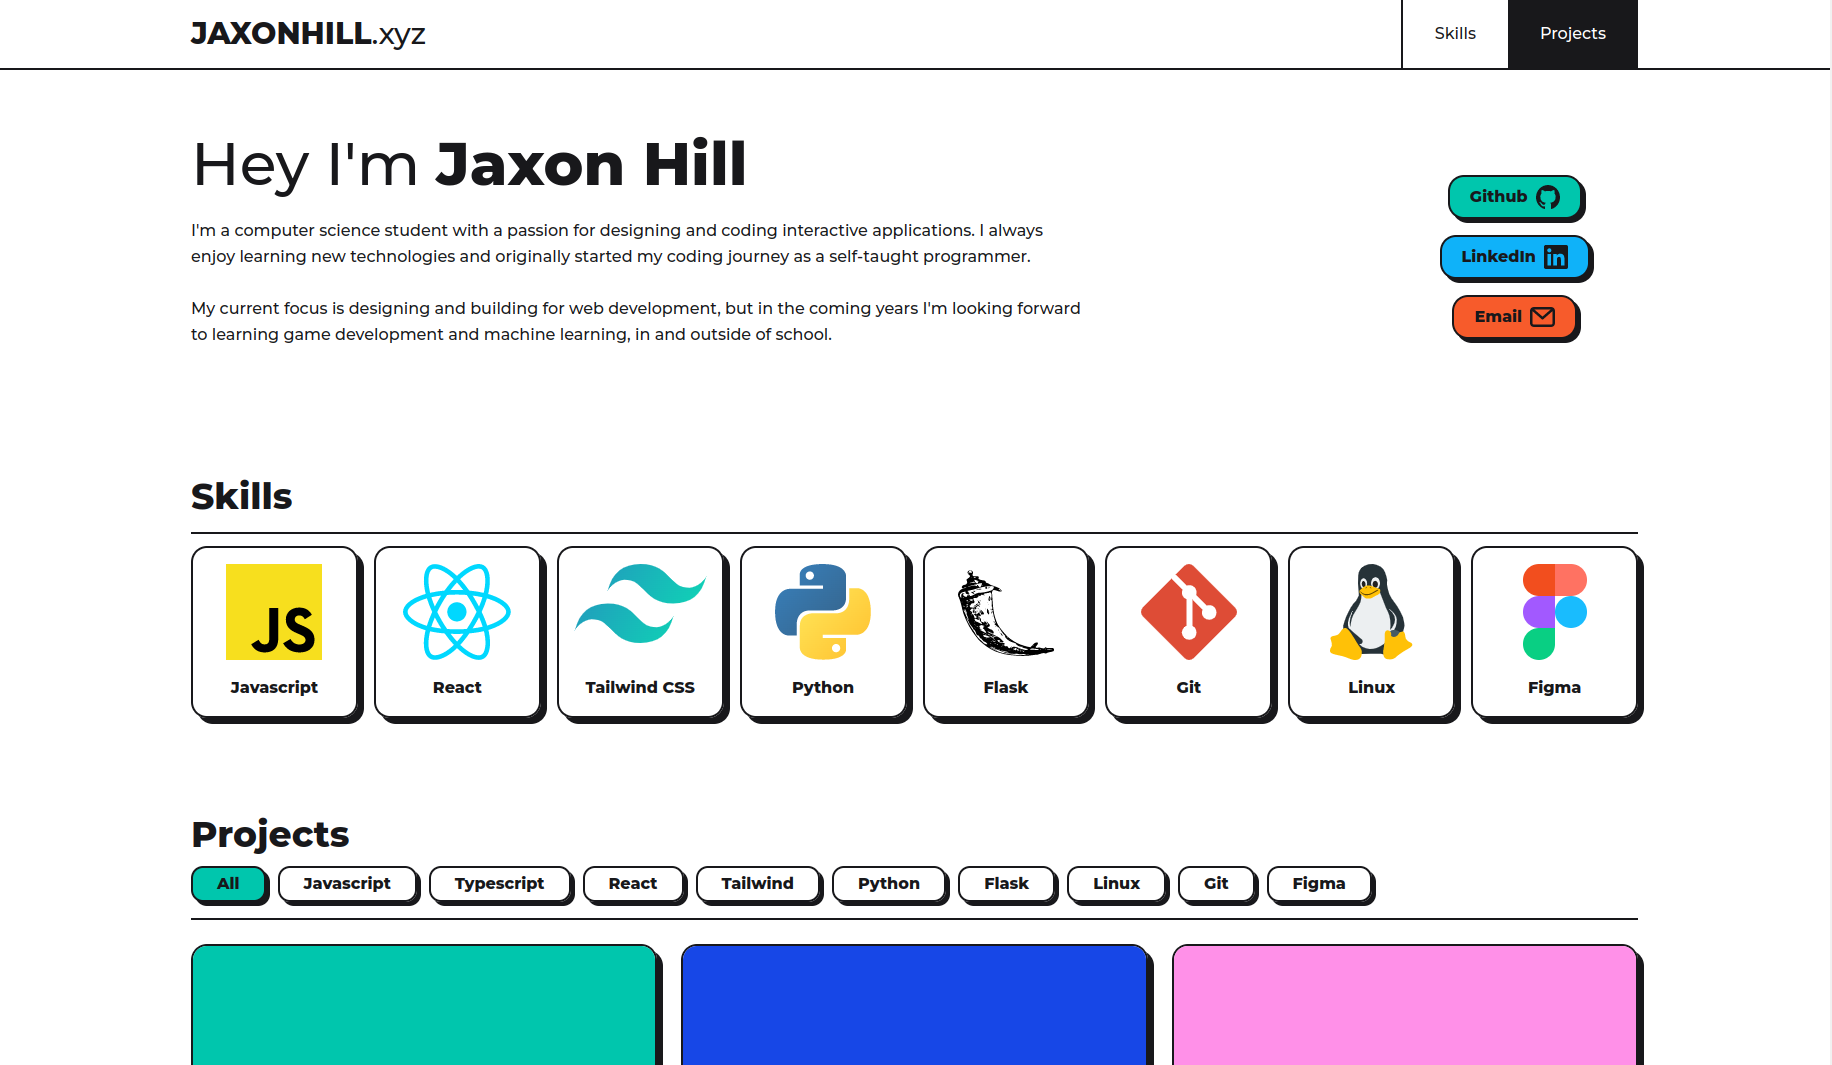
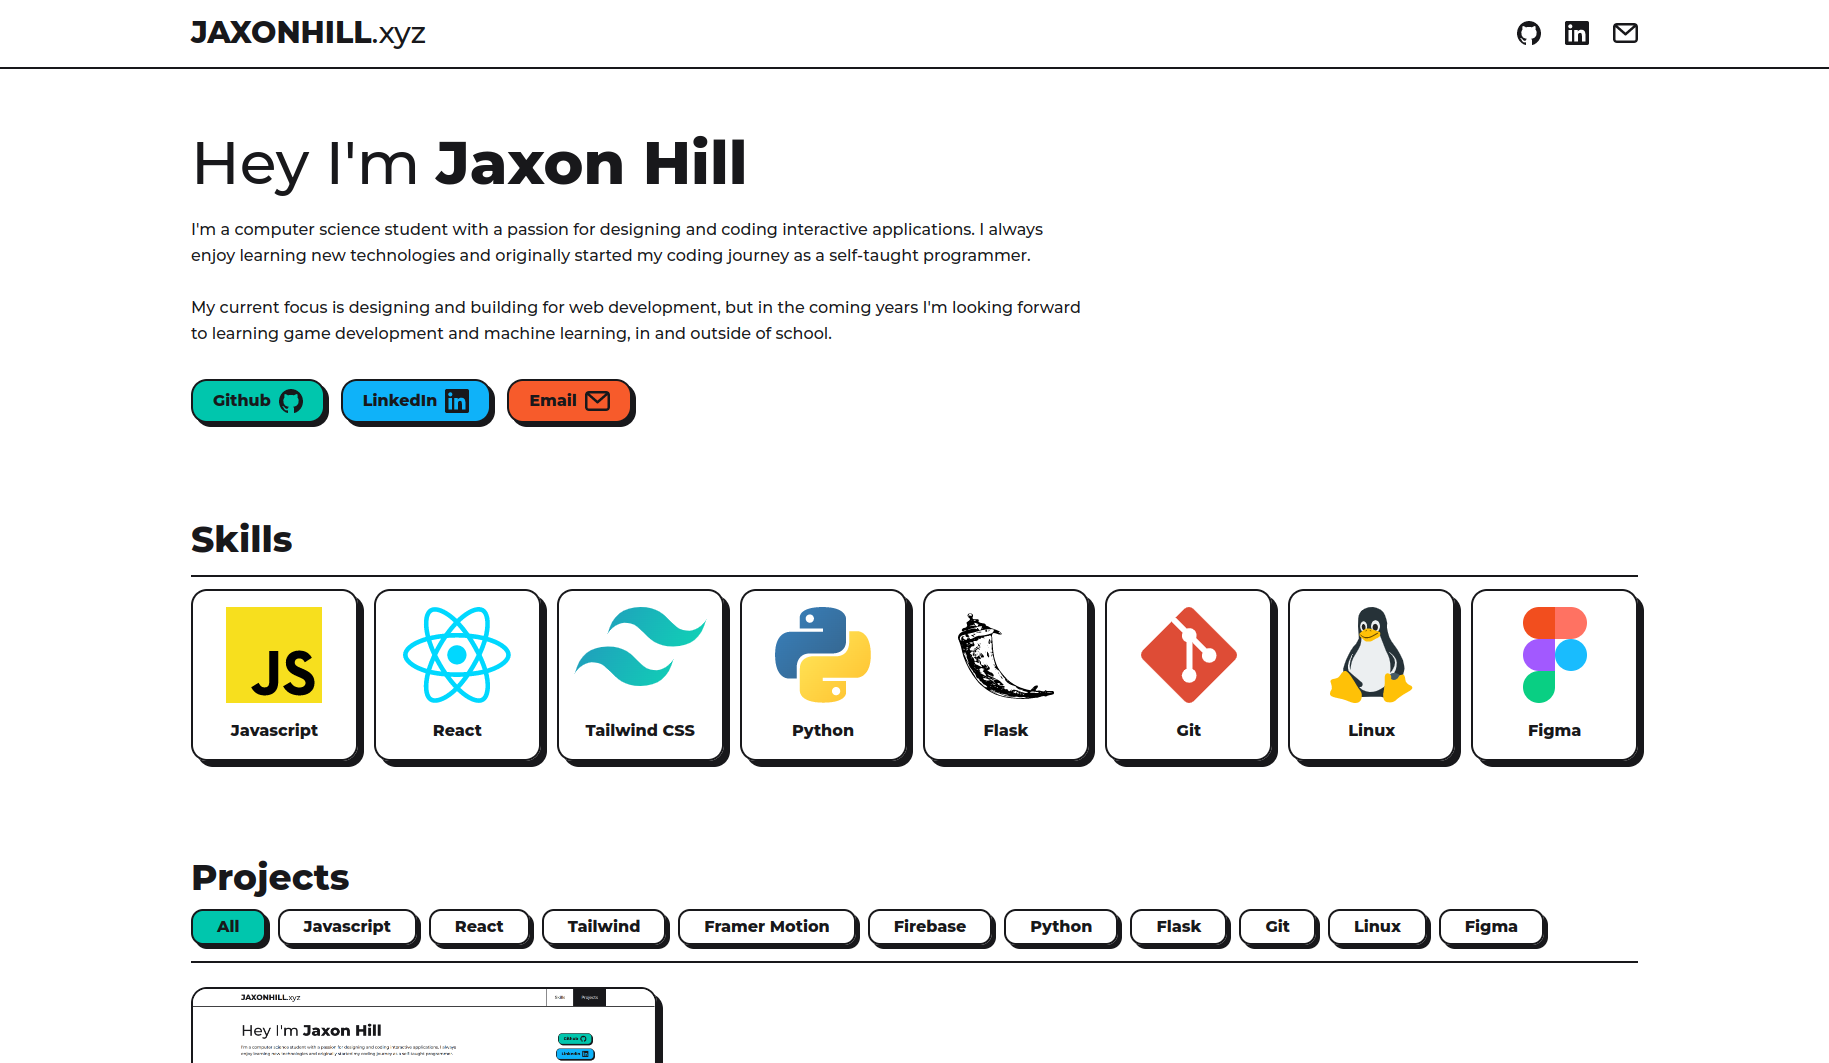
Add README and new project image

diff --git a/README.md b/README.md
@@ -1,0 +1,14 @@
+<div style="display: flex; flex-direction: column; align-items: center; gap: 0.75rem" >
+    <img src="./frontend/build/images/personal_site.png"></img>
+    <div style="display: flex; flex-direction: column; align-items: center;">
+    <h2 style="font-weight: bold">jaxonhill.xyz</h2>
+    <p style="text-align: center">An interactive, responsive portfolio website designed in Figma and built with Javascript, React, Tailwind, and Framer Motion. The website is hosted with Firebase Hosting.</p>
+    </div>
+</div>
+
+### Features:
+* User friendly, responsive design for every device
+* Interactive filtering of project section based on technologies selected
+* Satisfying animations on each button click as well as on each filter.
+
+The live site is at [jaxonhill.xyz](https://jaxonhill.xyz/) 
